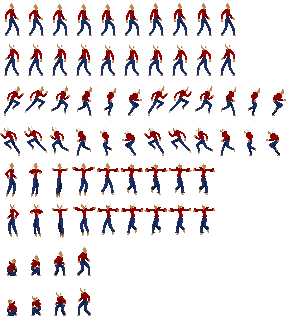
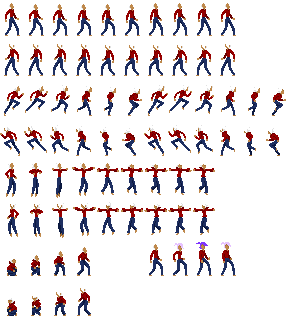
Add TEMPORARY!! conjure animation

diff --git a/src/com/megahard/gravity/objects/Player.java b/src/com/megahard/gravity/objects/Player.java
@@ -32,7 +32,7 @@ public class Player extends GameObject {
 				isFalling = false;
 				setSpriteAction("land");
 			} else if(!isRunning){
-				setSpriteAction("default", new String[]{"land", "default"});
+				setSpriteAction("default", new String[]{"land", "conjure", "default"});
 			}
 		} else {
 			isFalling = true;
@@ -71,6 +71,9 @@ public class Player extends GameObject {
 		well = new GravWell(getGame());
 		well.position = pos;
 		getGame().addObject(well);
+		if(sprite.getAction().startsWith("default")){
+			setSpriteAction("conjure");
+		}
 	}
 
 	private void run(boolean left) {
